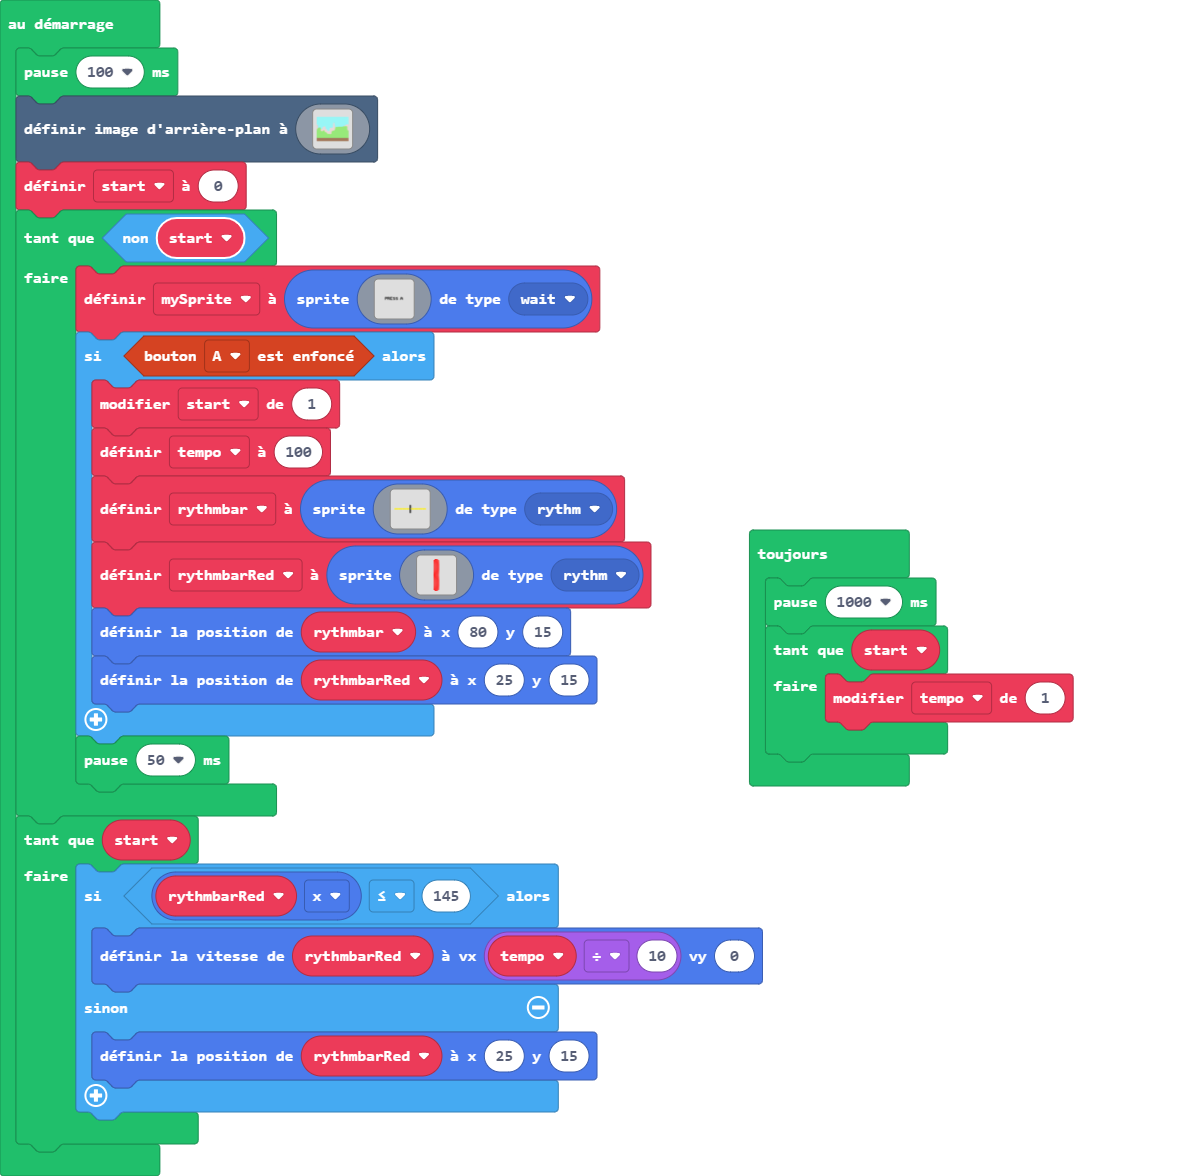
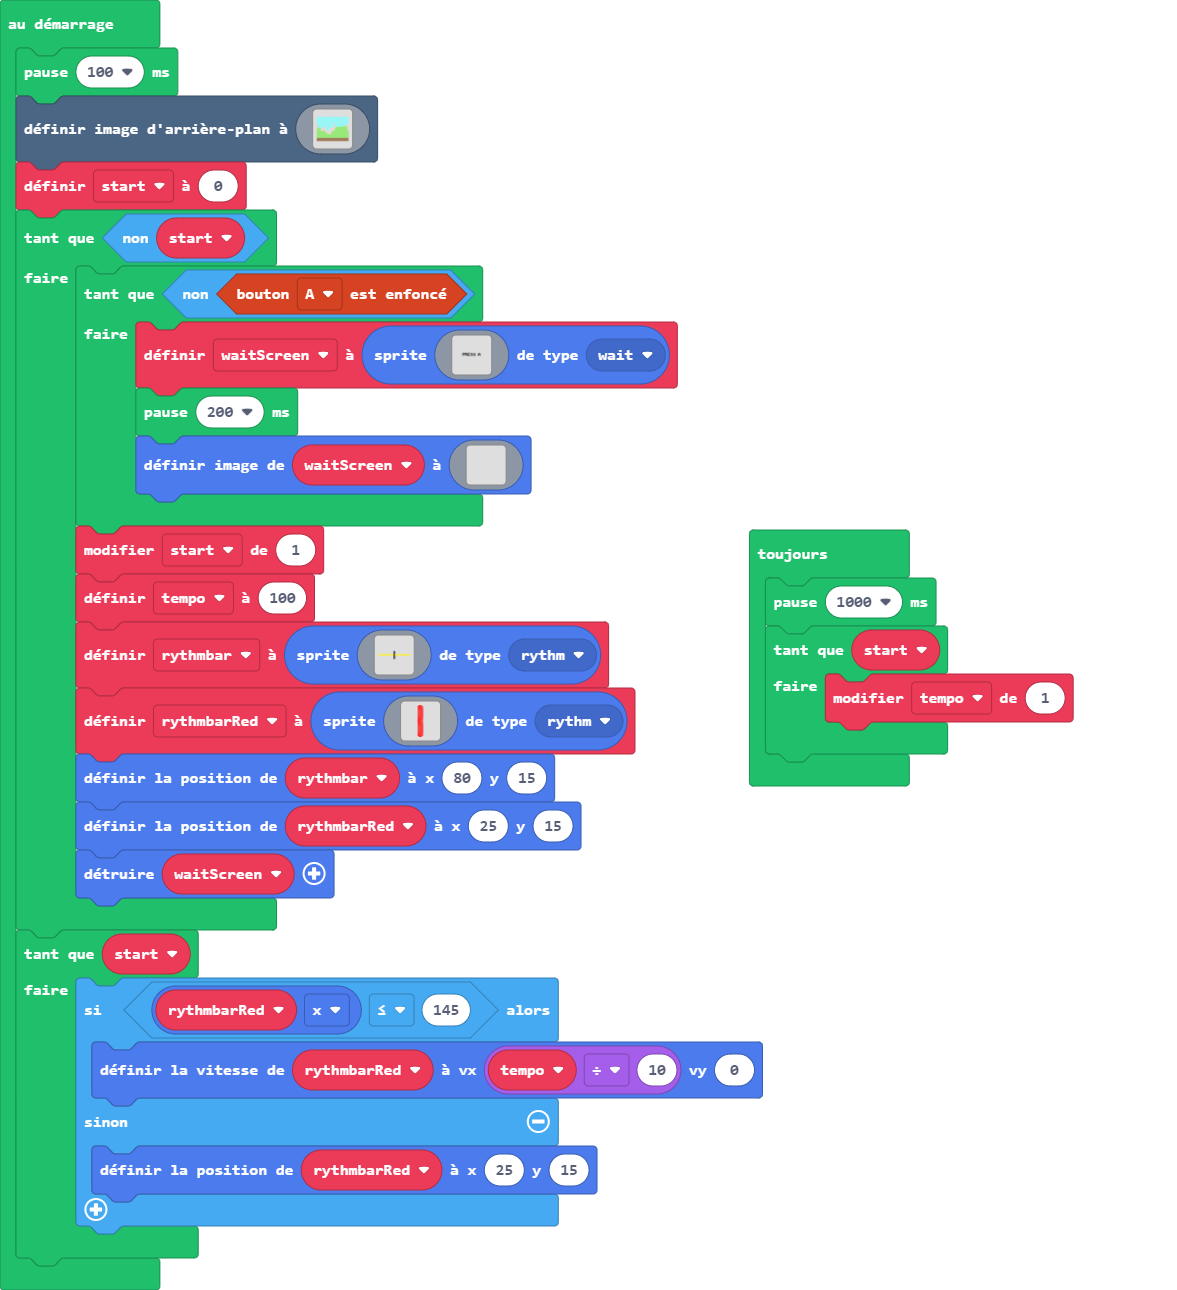
Mise à jour main.blocks, main.ts, images.g.jres, images.g.ts

Changed region(s): [[0.0, 0.0, 0.6729, 0.9796], [0.6117, 0.398, 0.9176, 0.6735]]

diff --git a/main.ts b/main.ts
@@ -5,7 +5,7 @@ namespace SpriteKind {
 let rythmbarRed: Sprite = null
 let rythmbar: Sprite = null
 let tempo = 0
-let mySprite: Sprite = null
+let waitScreen: Sprite = null
 pause(100)
 scene.setBackgroundImage(img`
     9999999999999999999999999999999999999999999999999999999999999999999999999999999999999999999999999999999999999999999999999999999999999999999999999999999999999999
@@ -131,16 +131,35 @@ scene.setBackgroundImage(img`
     `)
 let start = 0
 while (!(start)) {
-    mySprite = sprites.create(assets.image`pressA`, SpriteKind.wait)
-    if (controller.A.isPressed()) {
-        start += 1
-        tempo = 100
-        rythmbar = sprites.create(assets.image`ref_bar`, SpriteKind.rythm)
-        rythmbarRed = sprites.create(assets.image`myImage2`, SpriteKind.rythm)
-        rythmbar.setPosition(80, 15)
-        rythmbarRed.setPosition(25, 15)
+    while (!(controller.A.isPressed())) {
+        waitScreen = sprites.create(assets.image`pressA`, SpriteKind.wait)
+        pause(200)
+        waitScreen.setImage(img`
+            . . . . . . . . . . . . . . . . 
+            . . . . . . . . . . . . . . . . 
+            . . . . . . . . . . . . . . . . 
+            . . . . . . . . . . . . . . . . 
+            . . . . . . . . . . . . . . . . 
+            . . . . . . . . . . . . . . . . 
+            . . . . . . . . . . . . . . . . 
+            . . . . . . . . . . . . . . . . 
+            . . . . . . . . . . . . . . . . 
+            . . . . . . . . . . . . . . . . 
+            . . . . . . . . . . . . . . . . 
+            . . . . . . . . . . . . . . . . 
+            . . . . . . . . . . . . . . . . 
+            . . . . . . . . . . . . . . . . 
+            . . . . . . . . . . . . . . . . 
+            . . . . . . . . . . . . . . . . 
+            `)
     }
-    pause(50)
+    start += 1
+    tempo = 100
+    rythmbar = sprites.create(assets.image`ref_bar`, SpriteKind.rythm)
+    rythmbarRed = sprites.create(assets.image`myImage2`, SpriteKind.rythm)
+    rythmbar.setPosition(80, 15)
+    rythmbarRed.setPosition(25, 15)
+    waitScreen.destroy()
 }
 while (start) {
     if (rythmbarRed.x <= 145) {

diff --git a/images.g.ts b/images.g.ts
@@ -267,6 +267,24 @@ eeeeeeeeeeeeeeeeeeeeeeeeeeeeeeeeeeeeeeeeeeeeeeeeeeeeeeeeeeeeeeeeeeeeeeeeeeeeeeee
 .......................................fff..........fff......ffff...ffffffffffff.....ffffffffff......fffffffff..............fff.........fff.........................................
 .......................................fff..........fff.......fff...ffffffffffff.....ffffffff........fffffff................fff.........fff.........................................
 `;
+            case "image6":return img`
+. . . . . . . . . . . . . . . . 
+. . . . . . . . . . . . . . . . 
+. . . . . . . . . . . . . . . . 
+. . . . . . . . . . . . . . . . 
+. . . . . . . . . . . . . . . . 
+. . . . . . . . . . . . . . . . 
+. . . . . . . . . . . . . . . . 
+. . . . . . . . . . . . . . . . 
+. . . . . . . . . . . . . . . . 
+. . . . . . . . . . . . . . . . 
+. . . . . . . . . . . . . . . . 
+. . . . . . . . . . . . . . . . 
+. . . . . . . . . . . . . . . . 
+. . . . . . . . . . . . . . . . 
+. . . . . . . . . . . . . . . . 
+. . . . . . . . . . . . . . . . 
+`;
         }
         return null;
     })
